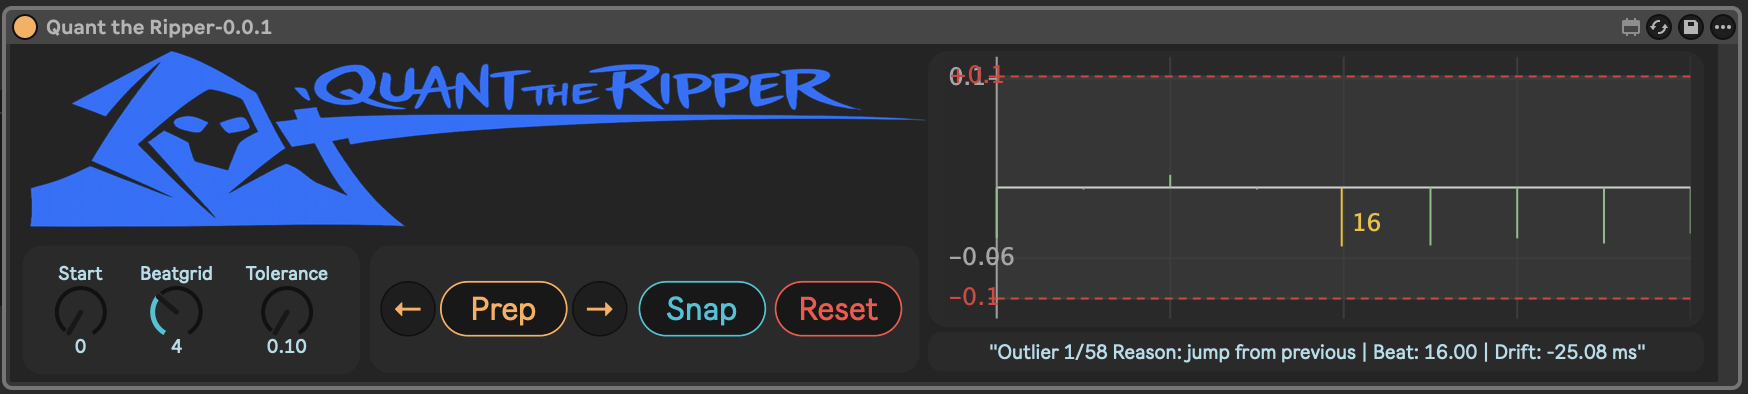
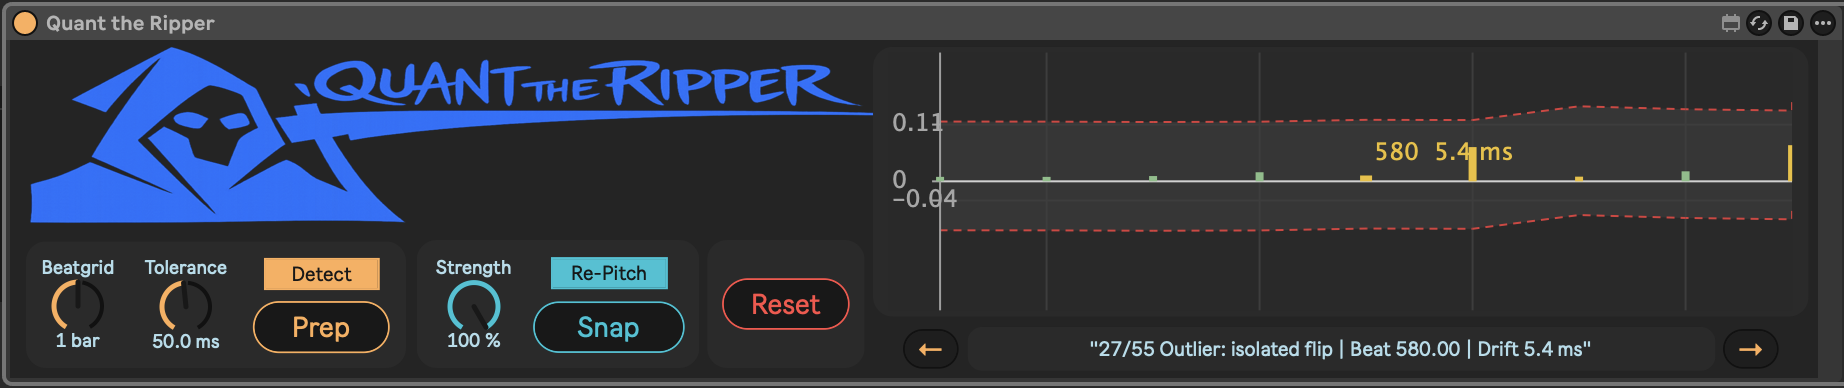
docs: refresh README demo and screenshots for the new layout

diff --git a/README.md b/README.md
@@ -1,7 +1,7 @@
 # Quant the Ripper
 A Max For Live device to quantize and warp audio with varying drift (e.g. vinyl rips)
 
-![](img/ripper-demo.gif)
+![](img/demo.gif)
 
 ## Overview
 Quant the Ripper matches warp markers to a beat grid, keeps the ones that fit, and snaps them onto the grid:
